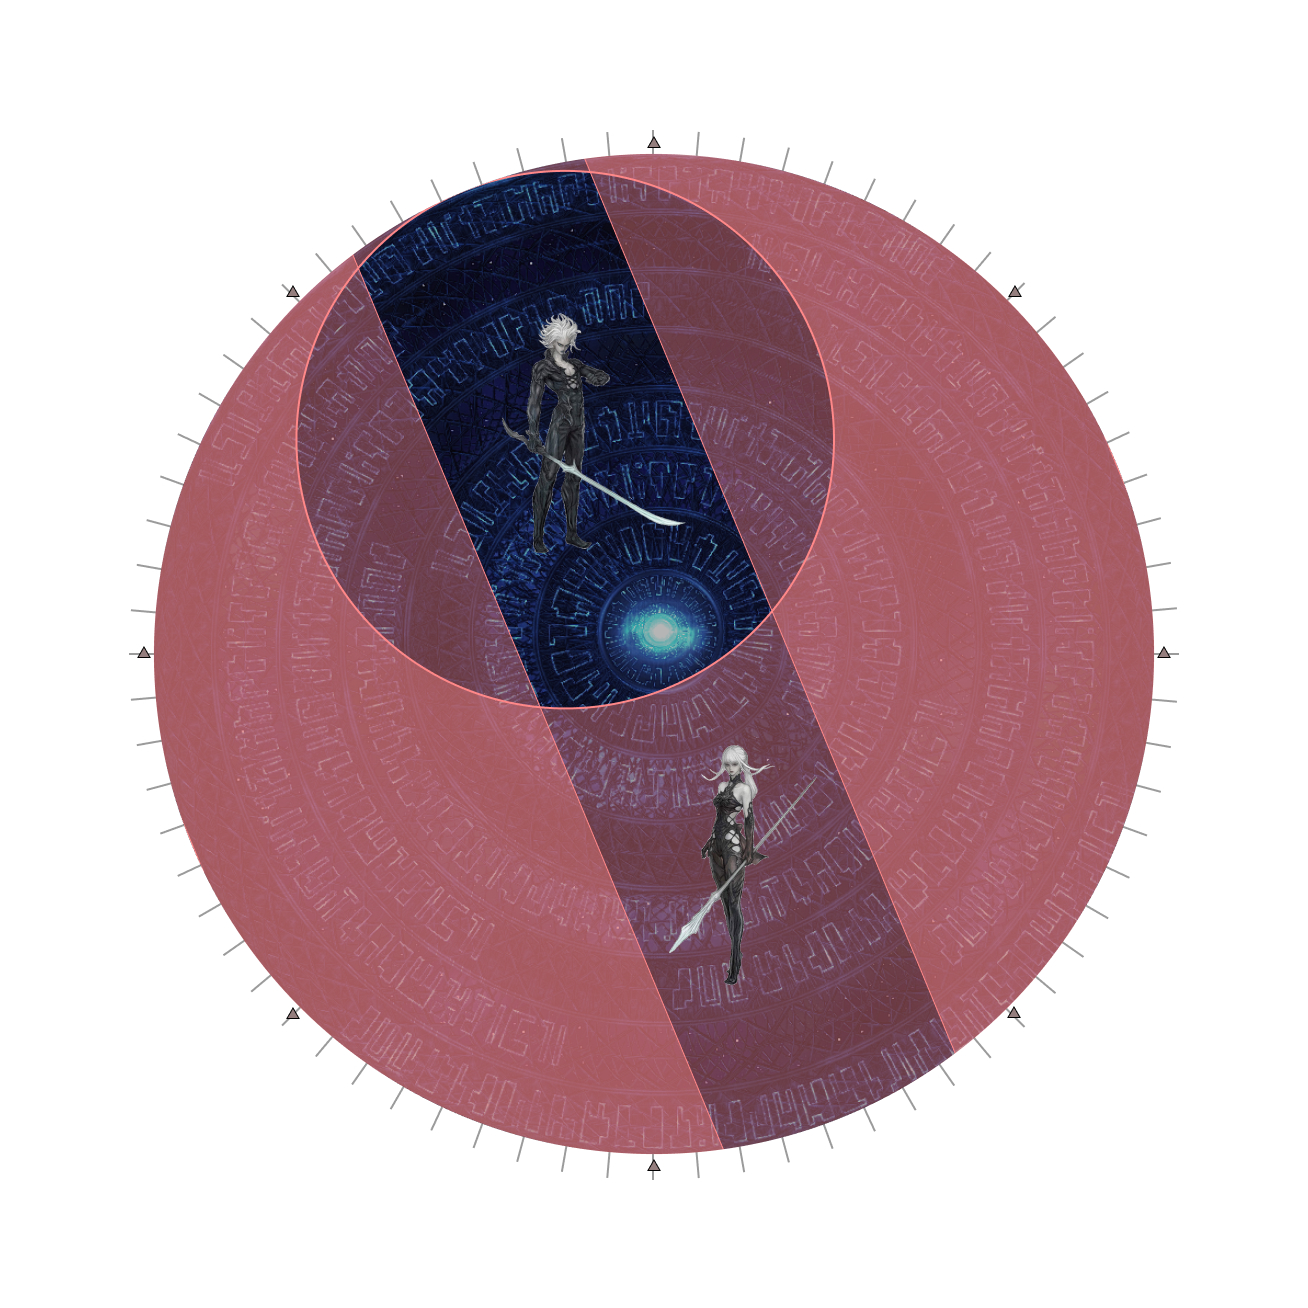
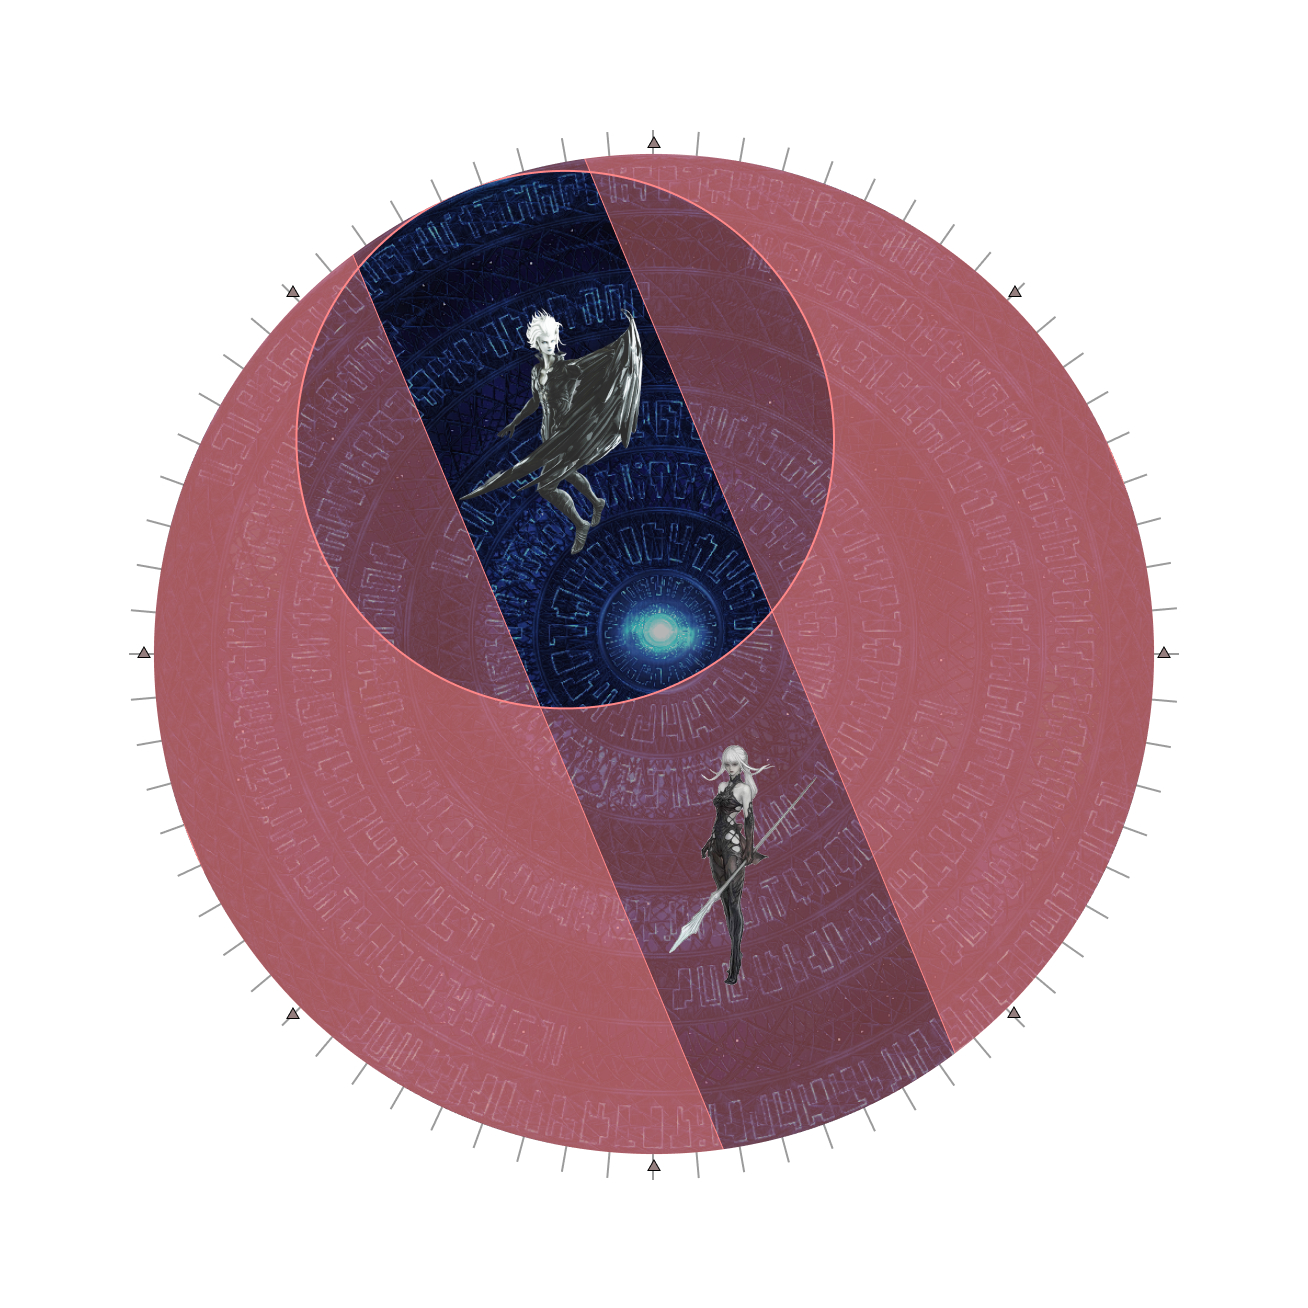
Add Omega M/F images to diagrams

Changed region(s): [[0.367, 0.2141, 0.4893, 0.4281]]

diff --git a/_includes/footer_custom.html b/_includes/footer_custom.html
@@ -1,0 +1,1 @@
+<p class="text-small text-grey-dk-100 mb-0">Final Fantasy XIV Elemental DC Raid Macros</p>
